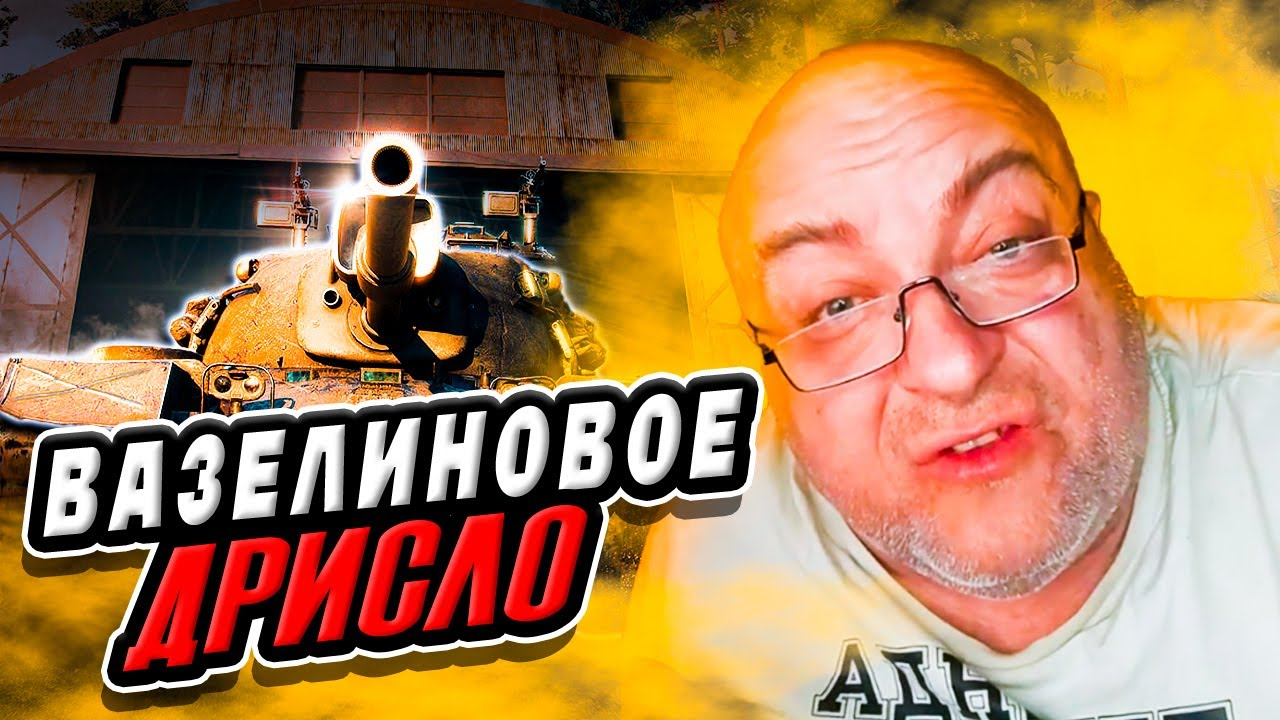
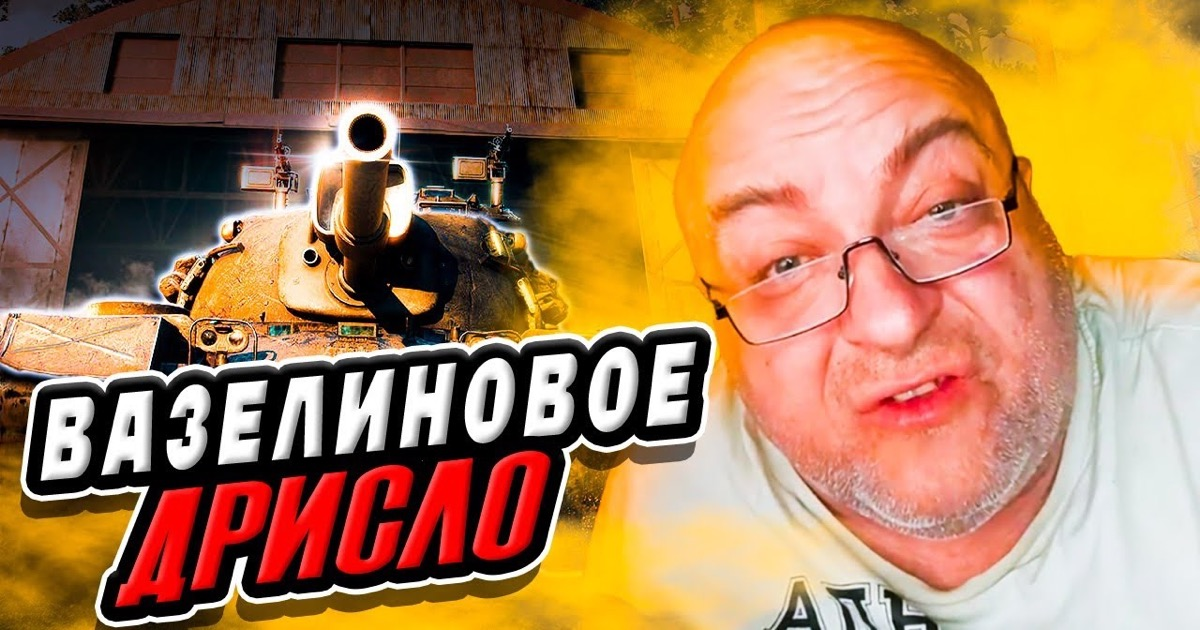
поправил og

diff --git a/index.html b/index.html
@@ -11,15 +11,16 @@
     <meta property="og:url" content="https://ruslan-1996.github.io/tanks/">
     <meta property="og:title" content="Турнирная сетка — World of Tanks">
     <meta property="og:description" content="Вазелиновое дрисло">
-    <meta property="og:image" content="https://ruslan-1996.github.io/tanks/og.jpg">
+    <meta property="og:image" content="https://ruslan-1996.github.io/tanks/og.jpg?v=2">
     <meta property="og:image:type" content="image/jpeg">
-    <meta property="og:image:width" content="1280">
-    <meta property="og:image:height" content="720">
+    <meta property="og:image:width" content="1200">
+    <meta property="og:image:height" content="630">
+    <link rel="canonical" href="https://ruslan-1996.github.io/tanks/">
     <meta property="og:image:alt" content="Турнирная сетка World of Tanks">
     <meta name="twitter:card" content="summary_large_image">
     <meta name="twitter:title" content="Турнирная сетка — World of Tanks">
     <meta name="twitter:description" content="Вазелиновое дрисло">
-    <meta name="twitter:image" content="https://ruslan-1996.github.io/tanks/og.jpg">
+    <meta name="twitter:image" content="https://ruslan-1996.github.io/tanks/og.jpg?v=2">
     <link rel="preconnect" href="https://fonts.googleapis.com">
     <link rel="preconnect" href="https://fonts.gstatic.com" crossorigin>
     <link href="https://fonts.googleapis.com/css2?family=Manrope:wght@500;600;700;800&family=Russo+One&display=swap" rel="stylesheet">
